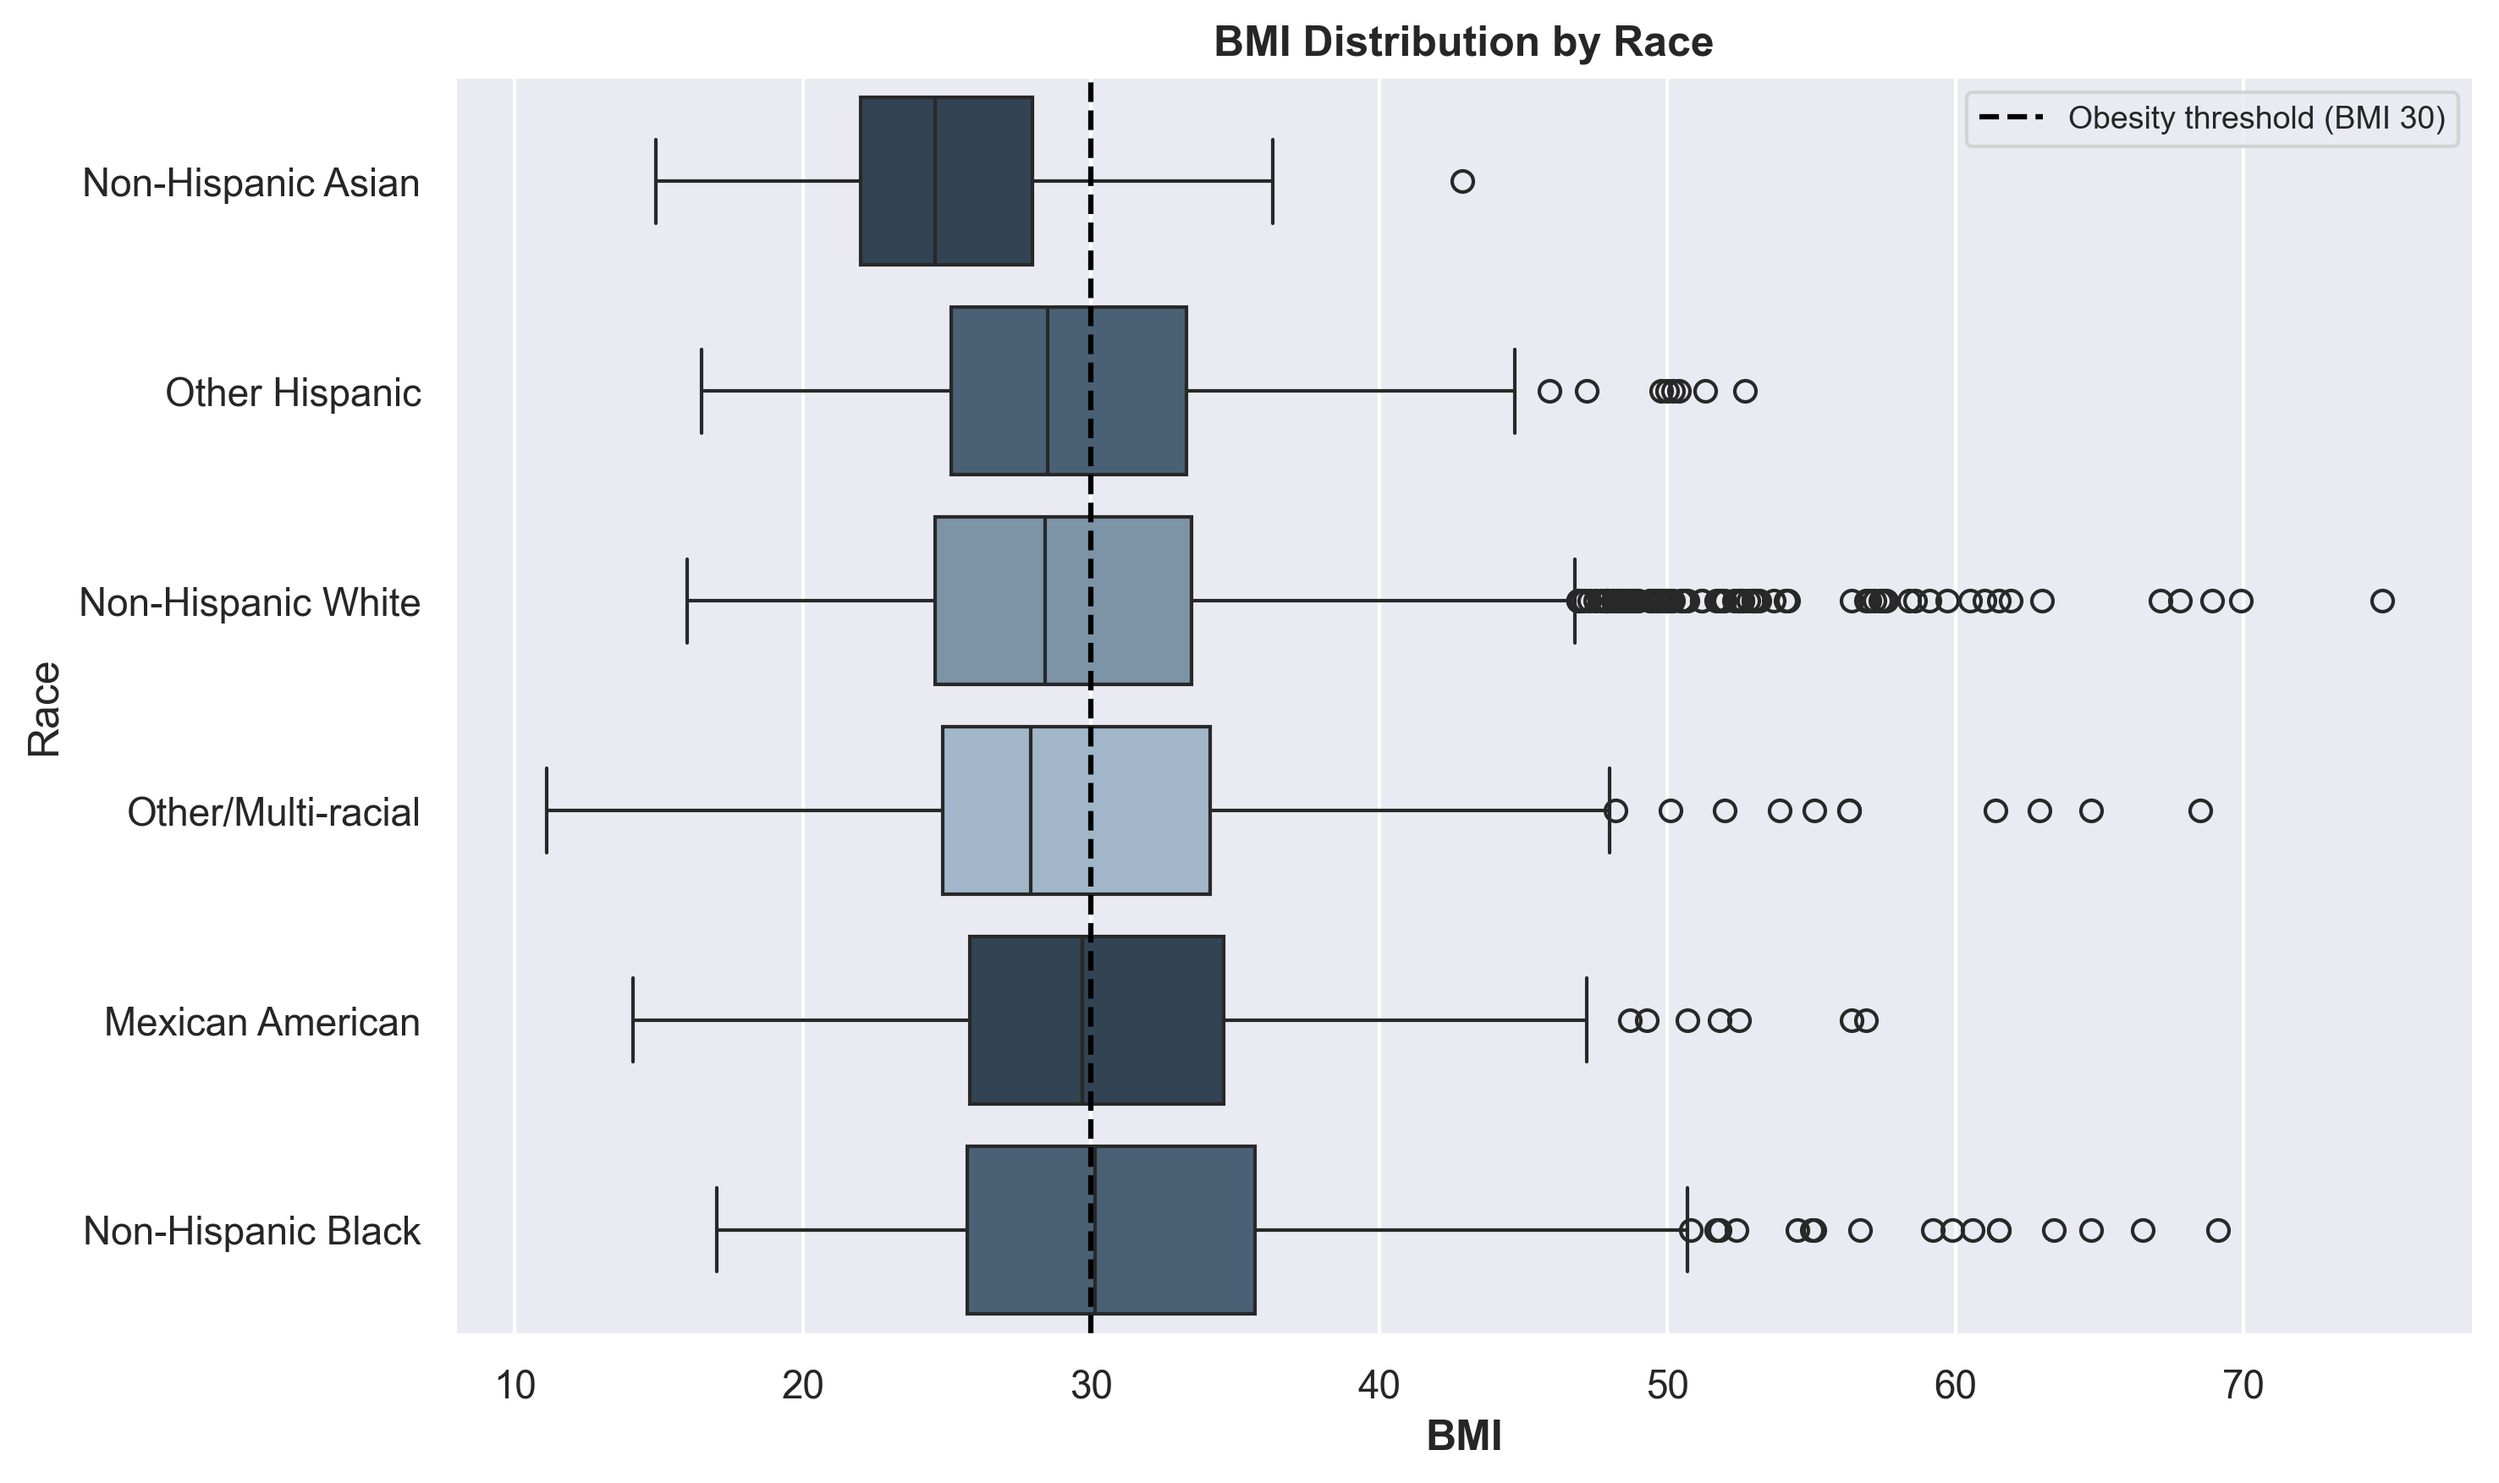
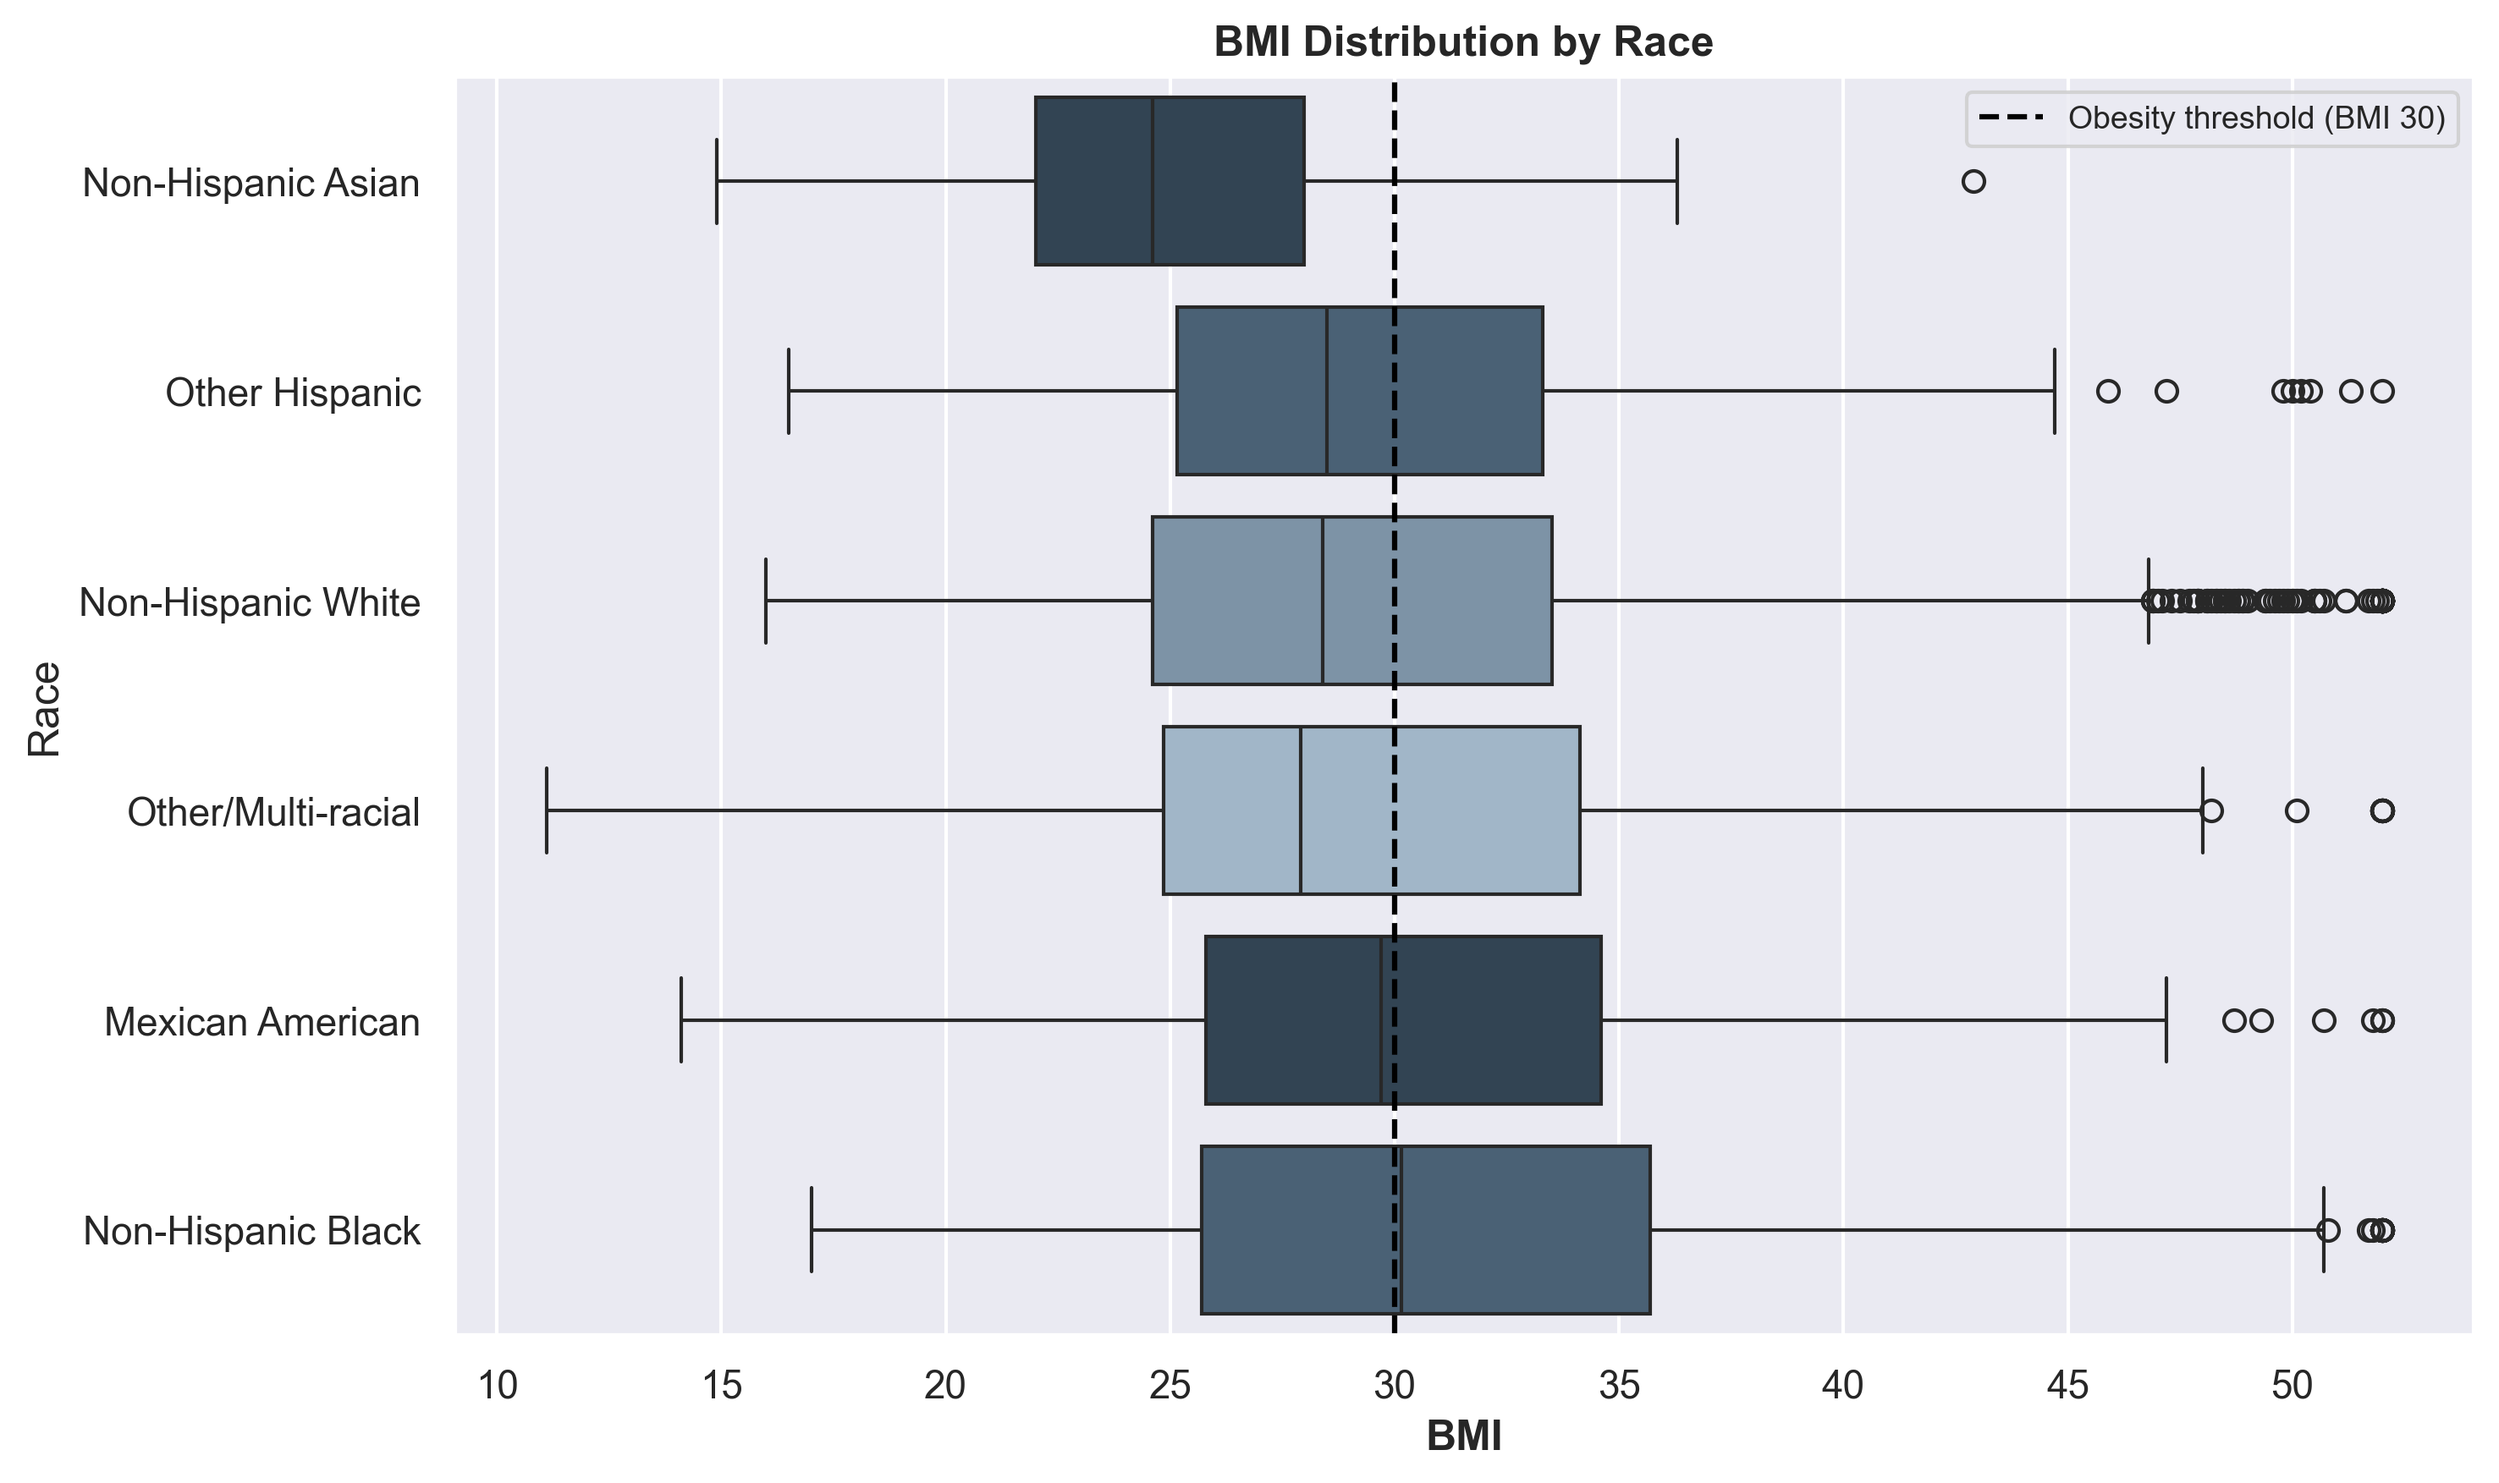
reintroduced plot_bmi_by_calorie_quartile_and_race

diff --git a/NHANES_BMI_Demographic_Analysis.py b/NHANES_BMI_Demographic_Analysis.py
@@ -24,18 +24,14 @@ df['Gender'] = df['RIAGENDR'].map({1: 'Male', 2: 'Female'})
 
 # CLEANING, PREPROCESSING
 
-for col in ['INDFMPIR', 'DR1TKCAL', 'DR1TFIBE', 'DR1TSUGR', 'DR1TSFAT']:
+for col in ['BMXBMI', 'DR1TKCAL', 'DR1TFIBE', 'DR1TSUGR', 'DR1TSFAT']:
     if col in df.columns:
         df.loc[df[col] < 0, col] = np.nan
 
-df = df.dropna(subset = ['RIDAGEYR', 'RIAGENDR', 'RIDRETH3'])
+df = df.dropna(subset = ['BMXBMI', 'RIDAGEYR', 'RIAGENDR', 'RIDRETH3'])
 
-df['Poverty_Category'] = pd.cut(df['INDFMPIR'], 
-                                bins = [0, 1, 2, 3, 5],
-                                labels = ['<1.0 (Low)', '1.0-2.0 (Near Low)', '2.0-3.0 (Middle)', '>3.0 (High)'])
-
-# capping extreme nutritient intake values at the 99th percentile to handle outliers
-for col in ['DR1TKCAL', 'DR1TFIBE', 'DR1TSUGR', 'DR1TSFAT']:
+# capping extreme BMI and nutritient intake values at the 99th percentile to handle outliers
+for col in ['BMXBMI', 'DR1TKCAL', 'DR1TFIBE', 'DR1TSUGR', 'DR1TSFAT']:
     cap = df[col].quantile(0.99)
     df[col] = df[col].clip(upper = cap)
 
@@ -43,7 +39,6 @@ for col in ['DR1TKCAL', 'DR1TFIBE', 'DR1TSUGR', 'DR1TSFAT']:
 df = df[df['RIDAGEYR'] >= 18]
 
 # assigning binary variables to obesity classification
-df['BMI'] = df['BMXBMI']
 df['Obese'] = (df['BMXBMI'] >= 30).astype(int)  # binary: 1 = obese, 0 = not obese
 
 
@@ -127,12 +122,12 @@ def plot_bmi_by_calorie_quartile_and_race(df):
     pivot = df.groupby(['Race', 'Calorie_Quartile'], observed = True)['BMXBMI'].mean().unstack()
     
     fig, ax = plt.subplots(figsize = (12, 6))
-    pivot.plot(kind = 'bar', ax = ax, colormap = 'coolwarm', edgecolor = 'black', linewidth = 0.5)
+    pivot.plot(kind = 'bar', ax = ax, color = ["#2C4459", "#43627C", "#7694AD", "#e68988"], edgecolor = 'black', linewidth = 0.5)
     ax.axhline(y = 30, color = 'black', linestyle = '--', label = 'Obesity threshold')
     ax.set_xlabel('Race', fontweight = 'bold')
     ax.set_ylabel('Mean BMI', fontweight = 'bold')
     ax.set_title('Mean BMI by Race and Calorie Intake Quartile', fontweight = 'bold')
-    ax.legend(title = 'Calorie Quartile')
+    ax.legend(title = 'Calorie Intake Quartile')
     ax.set_xticklabels(ax.get_xticklabels(), rotation = 30, ha = 'right')
     plt.tight_layout()
     plt.show()
@@ -181,12 +176,12 @@ def plot_obesity_rate_by_race_and_gender(df):
     
 
 def main():
-    plot_obesity_rate_by_race(df)
-    plot_weight_category_by_race(df)
-    plot_nutrient_intake_by_race(df)
-    box_plot_bmi_race(df)
-    # plot_bmi_by_calorie_quartile_and_race(df)
-    plot_obesity_rate_by_race_and_gender(df)
+    # plot_obesity_rate_by_race(df)
+    # plot_weight_category_by_race(df)
+    # plot_nutrient_intake_by_race(df)
+    # box_plot_bmi_race(df)
+    plot_bmi_by_calorie_quartile_and_race(df)
+    # plot_obesity_rate_by_race_and_gender(df)
 
 
 if __name__ == '__main__':
